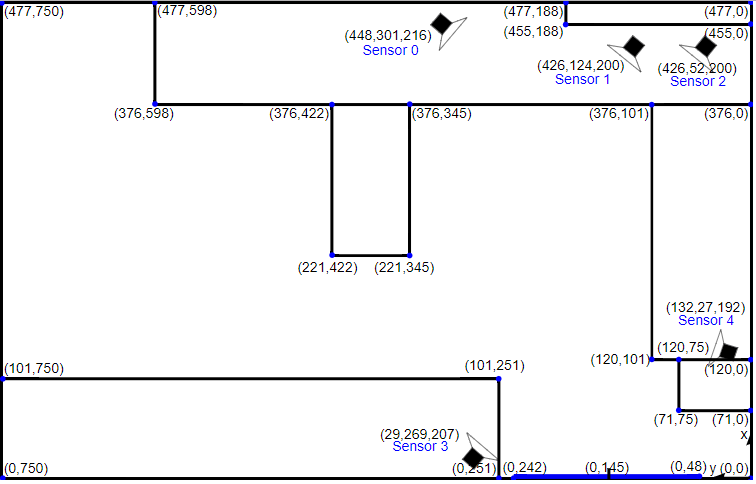
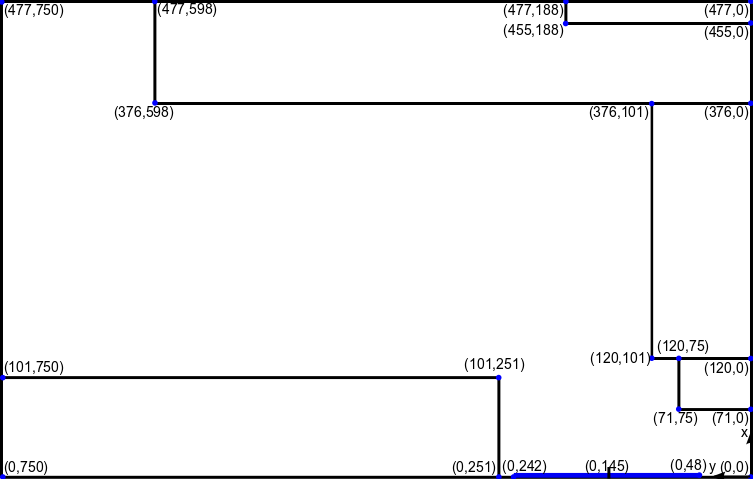
changed debug_screen to processed image

Changed region(s): [[0.0, 0.0, 1.0, 1.0], [0.3665, 0.2046, 0.6414, 0.5846]]

diff --git a/server/flask_server/routes_frontend.py b/server/flask_server/routes_frontend.py
@@ -5,6 +5,7 @@ from flask_server.models import Measurement_test, Measurement
 from help_module.img_helper import fast_thermal_image, PIL_to_bytes, combine_imgs
 from help_module.flask_helper import serve_pil_image
 from help_module.webcam_helper import get_webcam_img
+from help_module.img_processing_helper import ImageProcessor
 import time
 
 @app.route("/")
@@ -48,6 +49,8 @@ def get_ids():
 
 @app.route("/thermal_sensor/<id>/last_image", methods=['GET'])
 def get_sensor_last_image(id):
+    processor=ImageProcessor()
+
     print(f'requesting last image with id={id}')
     scaled_up = request.args.get('scale_up')
     scaled_up = 1 if scaled_up is None else int(scaled_up)
@@ -62,8 +65,10 @@ def get_sensor_last_image(id):
         last_result = Measurement_test.query.filter(Measurement_test.sensor_id == id).order_by(Measurement_test.timestamp.desc()).first()
     else:
         last_result = Measurement.query.filter(Measurement.sensor_id == int(id)).order_by(Measurement.timestamp.desc()).first()
-
-    img = fast_thermal_image(last_result.data, scale=scaled_up, interpolate=interpolate)
+    #get processed frame
+    processor.process(last_result.data)
+    cv2_data=processor.plot_frame()
+    img = fast_thermal_image(cv2_data, scale=scaled_up)
 
     return Response(img)
 
@@ -89,7 +94,6 @@ def stream_gen(id, simulated, show_webcam=True):
         bytes = PIL_to_bytes(img)
         yield (b'--frame\r\n'
                b'Content-Type: image/png\r\n\r\n' + bytes + b'\r\n')
-
 
 
 @app.route("/thermal_sensor/<id>/stream", methods=['GET'])

diff --git a/server/tracker_data_gen/MouseCapturer.py b/server/tracker_data_gen/MouseCapturer.py
@@ -98,10 +98,6 @@ class PathGenerator:
             for i in range(1,len(positions)):
                 writer.writerow([positions[i][0], positions[i][1], np.sum(d[:i-1])/vel])
 
-def main(filename,png=True):
-    pg=PathGenerator()
-    pg.generate_points()
-    pg.get_csv_and_png(filename,png)
 
 if __name__=='__main__':
     pg = PathGenerator()
@@ -110,7 +106,13 @@ if __name__=='__main__':
     png=True
     pg.get_csv_and_png(filename, png)
 
+
 '''
+def main(filename,png=True):
+    pg=PathGenerator()
+    pg.generate_points()
+    pg.get_csv_and_png(filename,png)
+    
 if __name__ == '__main__':
     parser = argparse.ArgumentParser()
     parser.add_argument('-fn', '--filename', type=str, required=True, help="filename")
